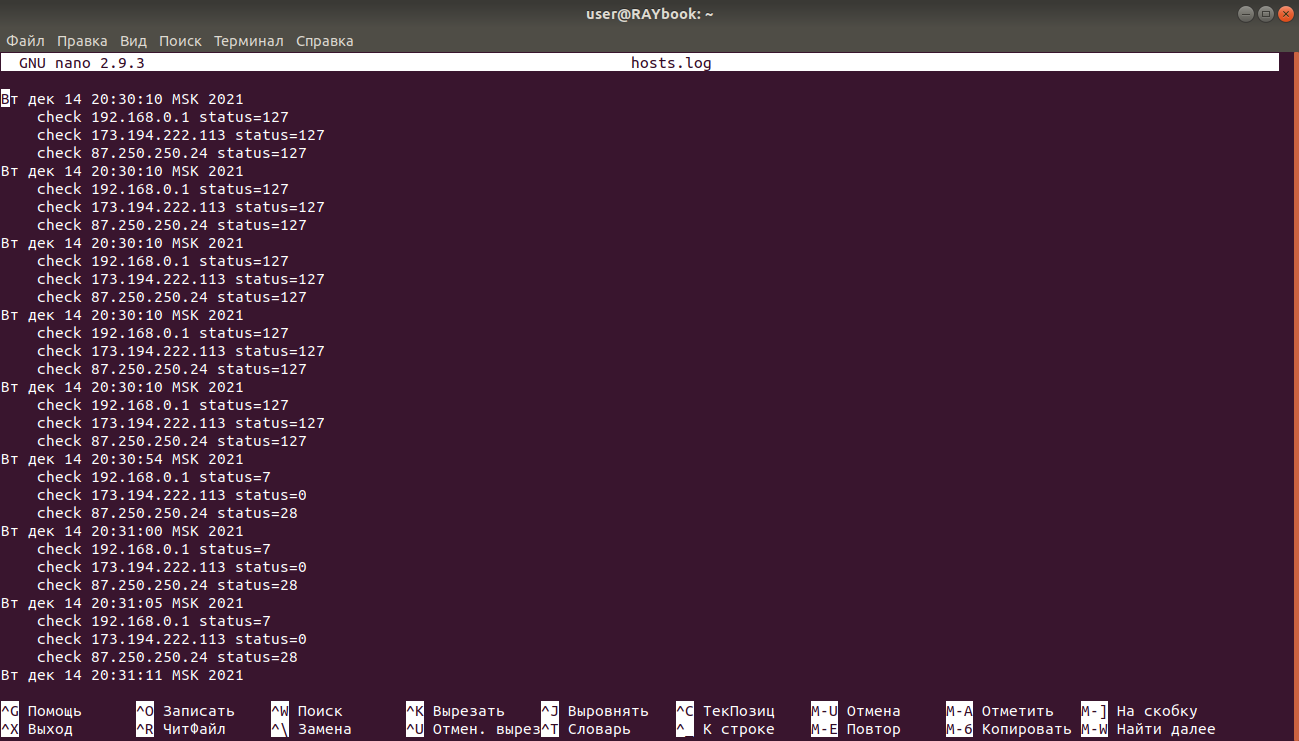
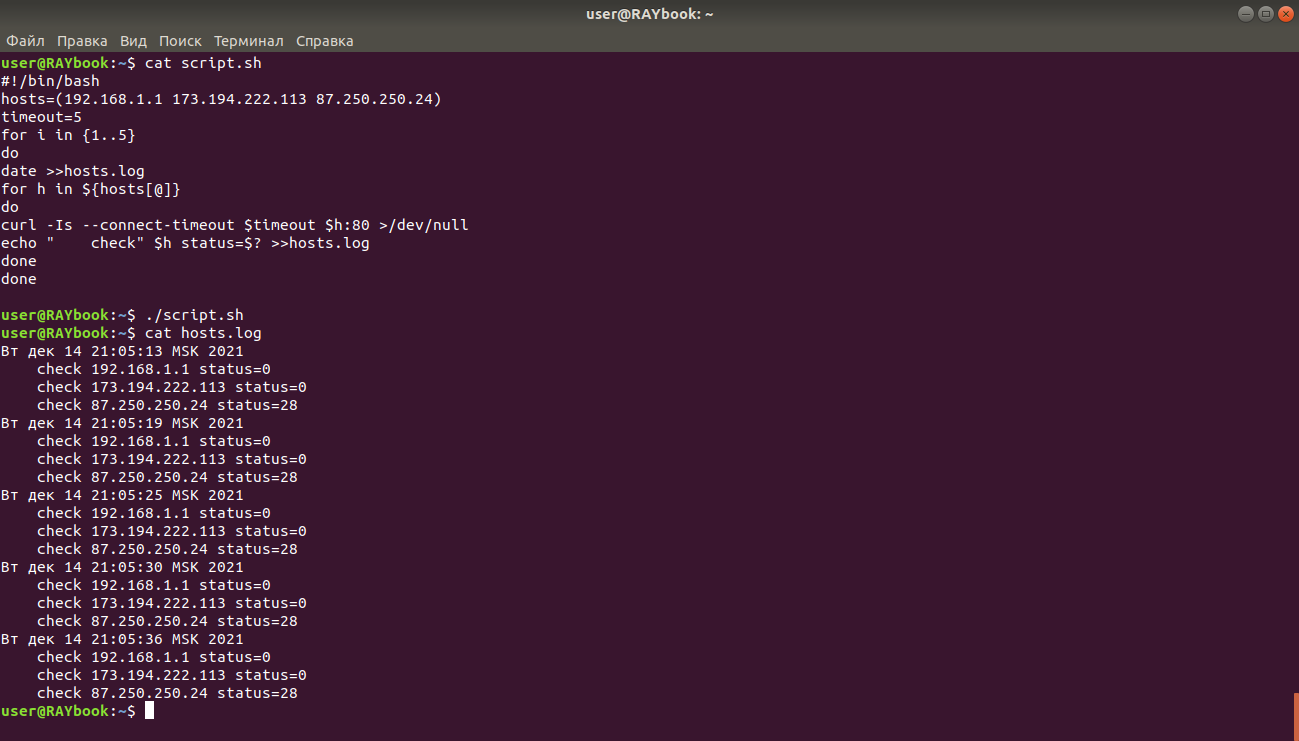
03-sysadmin-10-bash

Changed region(s): [[0.0, 0.0621, 1.0, 0.9933], [0.3079, 0.9312, 0.9238, 1.0]]

diff --git a/03-sysadmin-10-bash/readme.md b/03-sysadmin-10-bash/readme.md
@@ -11,9 +11,9 @@ e=$(($a+$b))
 ```
 
 ```
-c=a+b  Потому что "a+b" это строка
-d=1+2  получится строка "1+2"
-e=3 произойдет сложение 1 + 2
+c=a+b  = "a+b" это строка
+d=1+2  = будет одна строка "1+2"
+e=3    = 3, так как будет сложение 1 + 2
 ```
 2. На нашем локальном сервере упал сервис и мы написали скрипт, который постоянно проверяет его доступность, записывая дату проверок до тех пор, пока сервис не станет доступным. В скрипте допущена ошибка, из-за которой выполнение не может завершиться, при этом место на Жёстком Диске постоянно уменьшается. Что необходимо сделать, чтобы его исправить.
 
@@ -33,7 +33,7 @@ done
 Необходимо написать скрипт, который проверяет доступность трёх IP: 192.168.0.1, 173.194.222.113, 87.250.250.242 по 80 порту и записывает результат в файл log. Проверять доступность необходимо пять раз для каждого узла.
 
 ```
-hosts=(192.168.0.1 173.194.222.113 87.250.250.24)
+hosts=(192.168.1.1 173.194.222.113 87.250.250.24)
 timeout=5
 for i in {1..5}
 do
@@ -51,7 +51,7 @@ done
 
 ```
 #!/bin/bash
-hosts=(192.168.0.1 173.194.222.113 87.250.250.24)
+hosts=(192.168.1.1 173.194.222.113 87.250.250.24)
 timeout=5
 res=0
 
@@ -63,12 +63,10 @@ curl -Is --connect-timeout $timeout $h:80 >/dev/null
 res=$?
 if (($res != 0))
 then
-echo "    ERROR on " $h status=$res >>hosts2.log
+echo " ERROR " $h status=$res >>hosts_error.log
 fi
 done
 done
 ```
 
 ![Screen2](https://github.com/emilsuleymanov/devops-netology/blob/main/03-sysadmin-10-bash/screen2.png)
-
-
